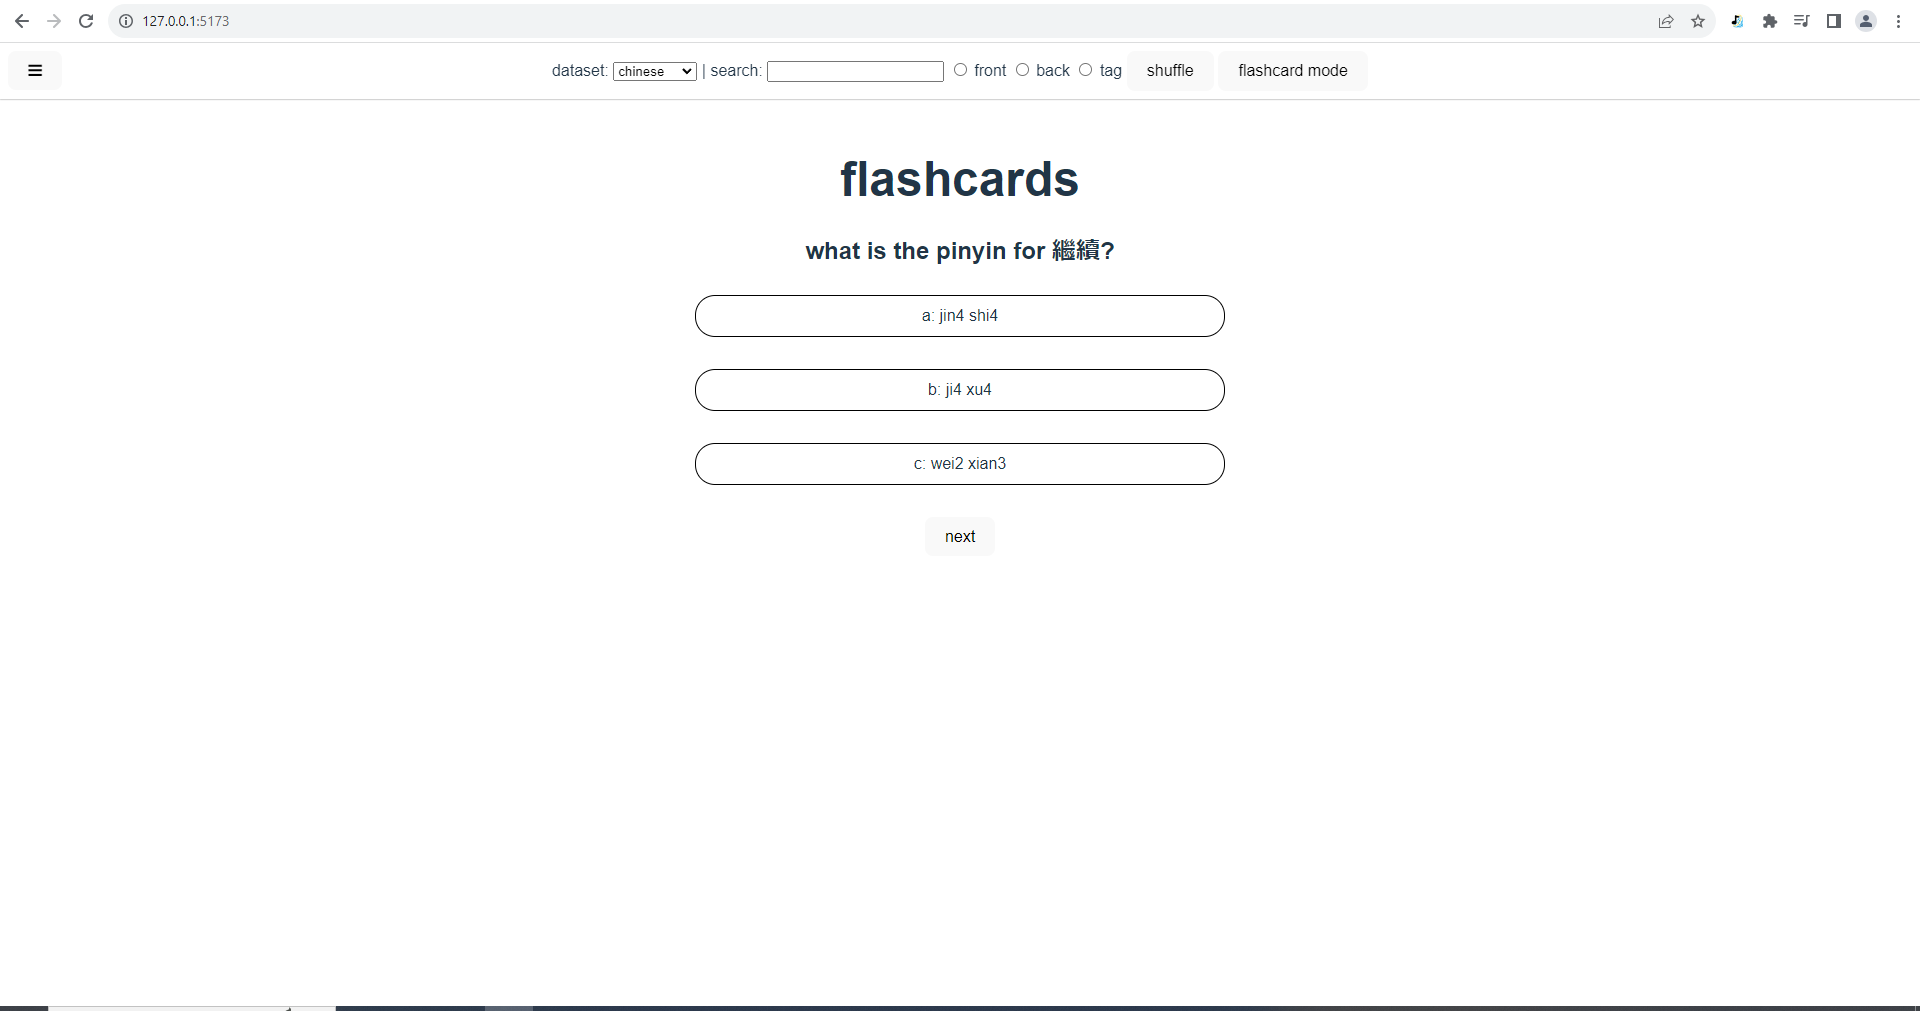
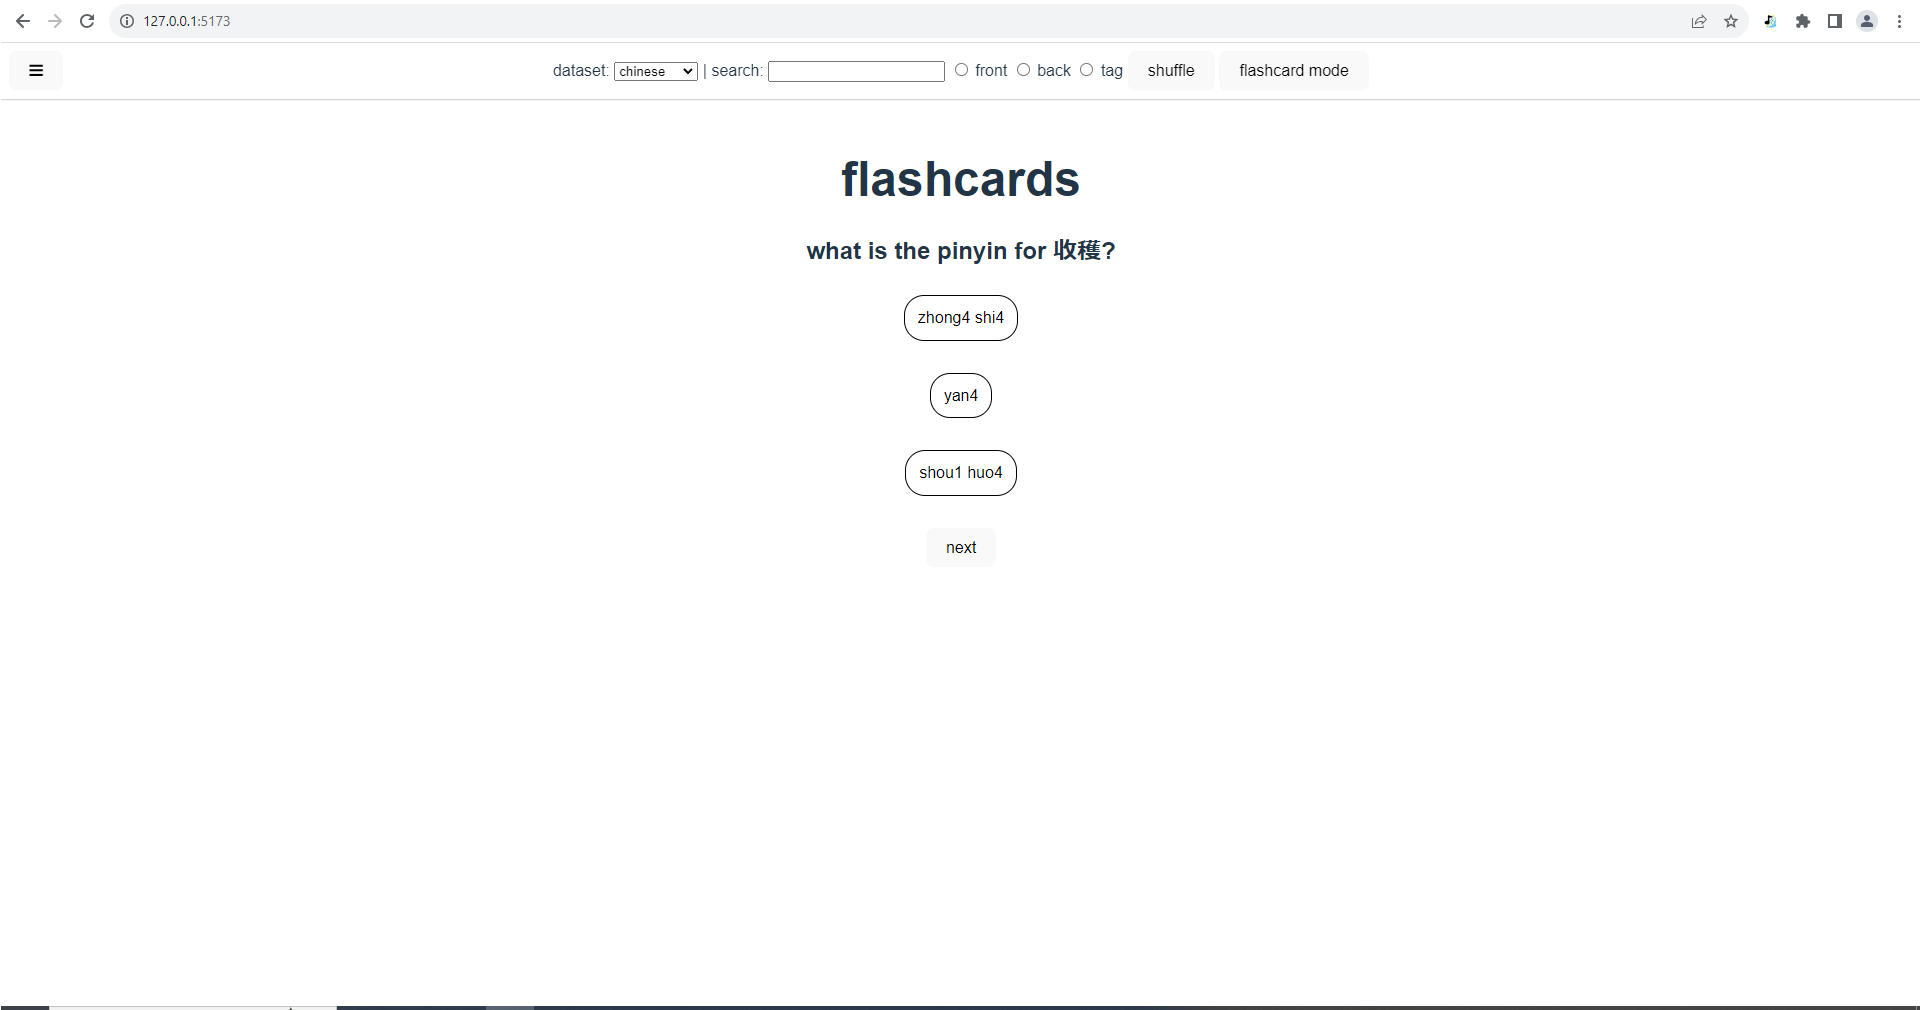
more edits

diff --git a/src/App.svelte b/src/App.svelte
@@ -148,7 +148,7 @@
   }
   
   const checkQuizAnswer = (evt: Event) => {
-    const choice = evt.target.textContent.split(':')[1].trim();
+    const choice = evt.target.textContent.trim();
     const actualAnswer = filteredData[currCardIndex].pinyin.trim();
     
     if(choice === actualAnswer){
@@ -269,9 +269,9 @@
     {@const possibleAnswers = getPossibleQuizAnswers(currCardIndex)}
     <div>
       <h2>what is the pinyin for {filteredData[currCardIndex].value}?</h2>
-      <p class="quiz-answer-choice" on:click={checkQuizAnswer}>a: {possibleAnswers[0].pinyin}</p>
-      <p class="quiz-answer-choice" on:click={checkQuizAnswer}>b: {possibleAnswers[1].pinyin}</p>
-      <p class="quiz-answer-choice" on:click={checkQuizAnswer}>c: {possibleAnswers[2].pinyin}</p>
+      <button class="quiz-answer-choice" on:click={checkQuizAnswer}>{possibleAnswers[0].pinyin}</button>
+      <button class="quiz-answer-choice" on:click={checkQuizAnswer}>{possibleAnswers[1].pinyin}</button>
+      <button class="quiz-answer-choice" on:click={checkQuizAnswer}>{possibleAnswers[2].pinyin}</button>
       <button on:click={shuffle}> next </button>
     </div>
   {/if}
@@ -320,8 +320,8 @@
   }
   
   .quiz-answer-choice {
-    max-width: 40%;
-    padding: 0.5em;
+    display: block;
+    padding: 0.8em;
     margin: 0 auto;
     margin-bottom: 2rem;
     margin-top: 2rem;
